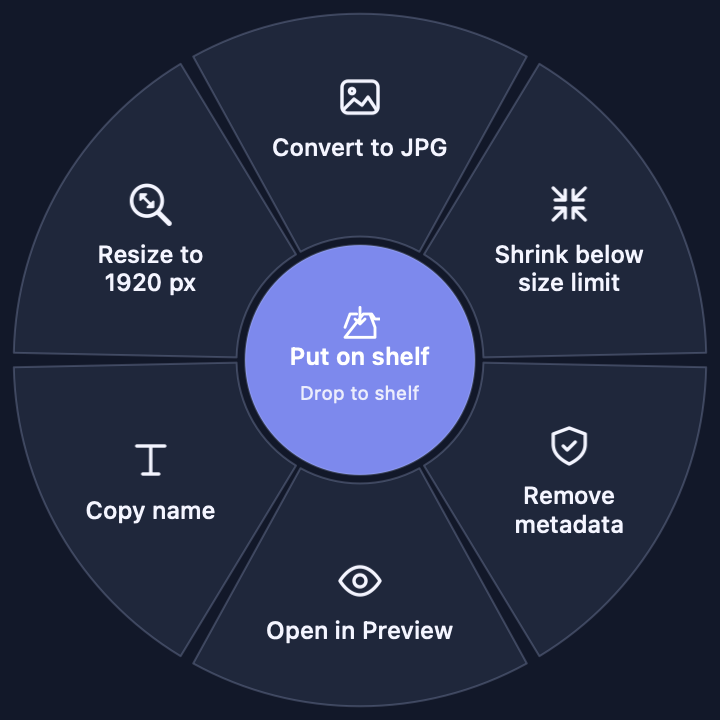
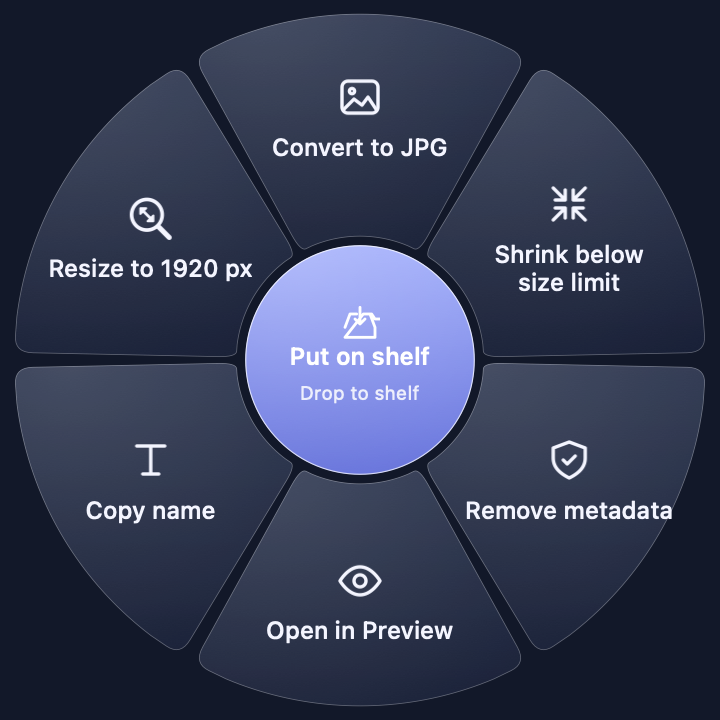
docs: glass look screenshots and notes

diff --git a/README.md b/README.md
@@ -210,7 +210,7 @@ and selecting text never trigger it.
 |---|---|
 | ← → (or ↑ ↓) | Move around the wheel |
 | Return or Space | Pick the highlighted slot |
-| 1 – 6 | Pick that slot at once (1 is the top, then clockwise) |
+| 1 – 6 | Pick that slot at once. Each slot shows its number (1 is the top, then clockwise) |
 | Delete | Leave a submenu |
 | ⌘← ⌘→ (or Tab, ⇧Tab) | Switch between the main wheel, your other wheels, app wheels and *Running apps* |
 | Two-finger swipe sideways | The same, on a trackpad or Magic Mouse, with the pointer over the wheel |
@@ -458,7 +458,7 @@ Gesture detector -> Drag reader -> Action resolver -> Wheel overlay -> Job runne
 | Shelf | `ShakenCore/Shelf.swift`, `Shaken/ShelfTray.swift` | Items kept by reference in a JSON file. |
 | Slot actions | `ShakenCore/Shortcuts.swift`, `InlineScript.swift`, `KeyCombo.swift`, `SystemControl.swift`, `Shaken/Typing.swift` | Shortcuts through `/usr/bin/shortcuts`, scripts through zsh and `osascript`, keys through `CGEvent`. |
 | Settings | `ShakenCore/Settings.swift`, `WheelPreset.swift` | Versioned `Codable` JSON with stable slot ids, validated on load, save and import. |
-| Look | `Shaken/Brand.swift`, `Resources/Glyphs`, `ShakenAssets/` | Palette, glyphs, app icon and menu bar icon from the Shaken asset kit. |
+| Look | `Shaken/Brand.swift`, `Shaken/Wheel.swift`, `Resources/` | Glass surfaces, palette, glyphs, app icon and menu bar icon. Respects Reduce Transparency and Increase Contrast. |
 | Gallery and updates | `ShakenCore/Gallery.swift`, `UpdateCheck.swift`, `gallery/` | Both read public files from this repository. |
 | Packs | `ShakenCore/PackManager.swift` | Clone, fingerprint, approve, update, remove. |
 

diff --git a/CHANGELOG.md b/CHANGELOG.md
@@ -14,6 +14,8 @@ All notable changes to Shaken. Versions follow [Semantic Versioning](https://sem
 - Shortcut output and files scripts write to `$SHAKEN_OUTPUT` appear in the chip.
 - Shake while dragging the chip or a shelf tile to chain another command.
 - Designed installer window.
+- Glass wheel: rounded tile corners, translucent gradient surfaces with a light edge, a gradient on the selected slot, and slot numbers shown in click mode. Follows Reduce Transparency and Increase Contrast.
+- The shelf is a horizontal strip with thumbnails and names side by side, and the wheel leaves room for it below.
 
 ### Fixed
 - Choosing App, File or Keyboard shortcut for a slot no longer snaps back to Empty before it's filled in.
